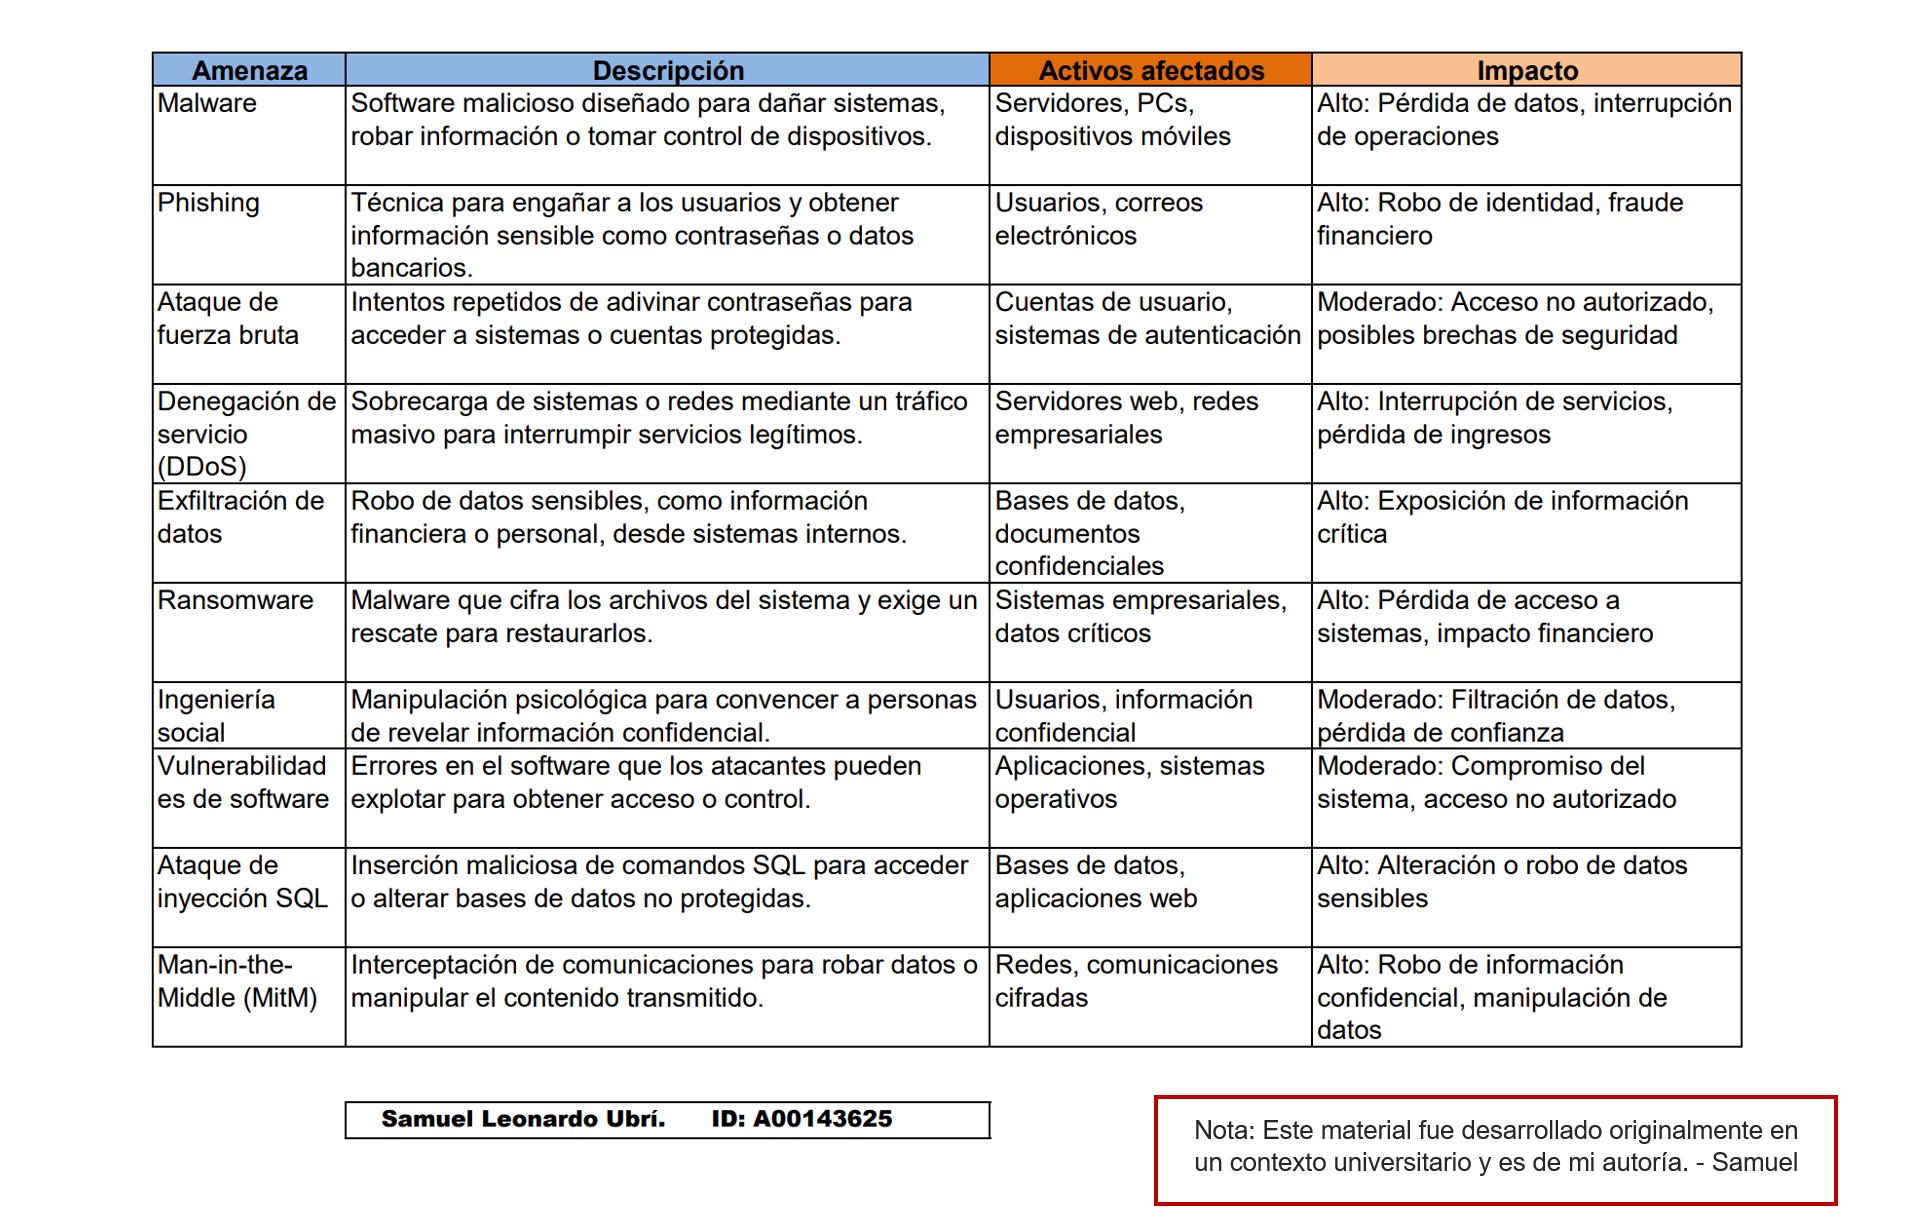
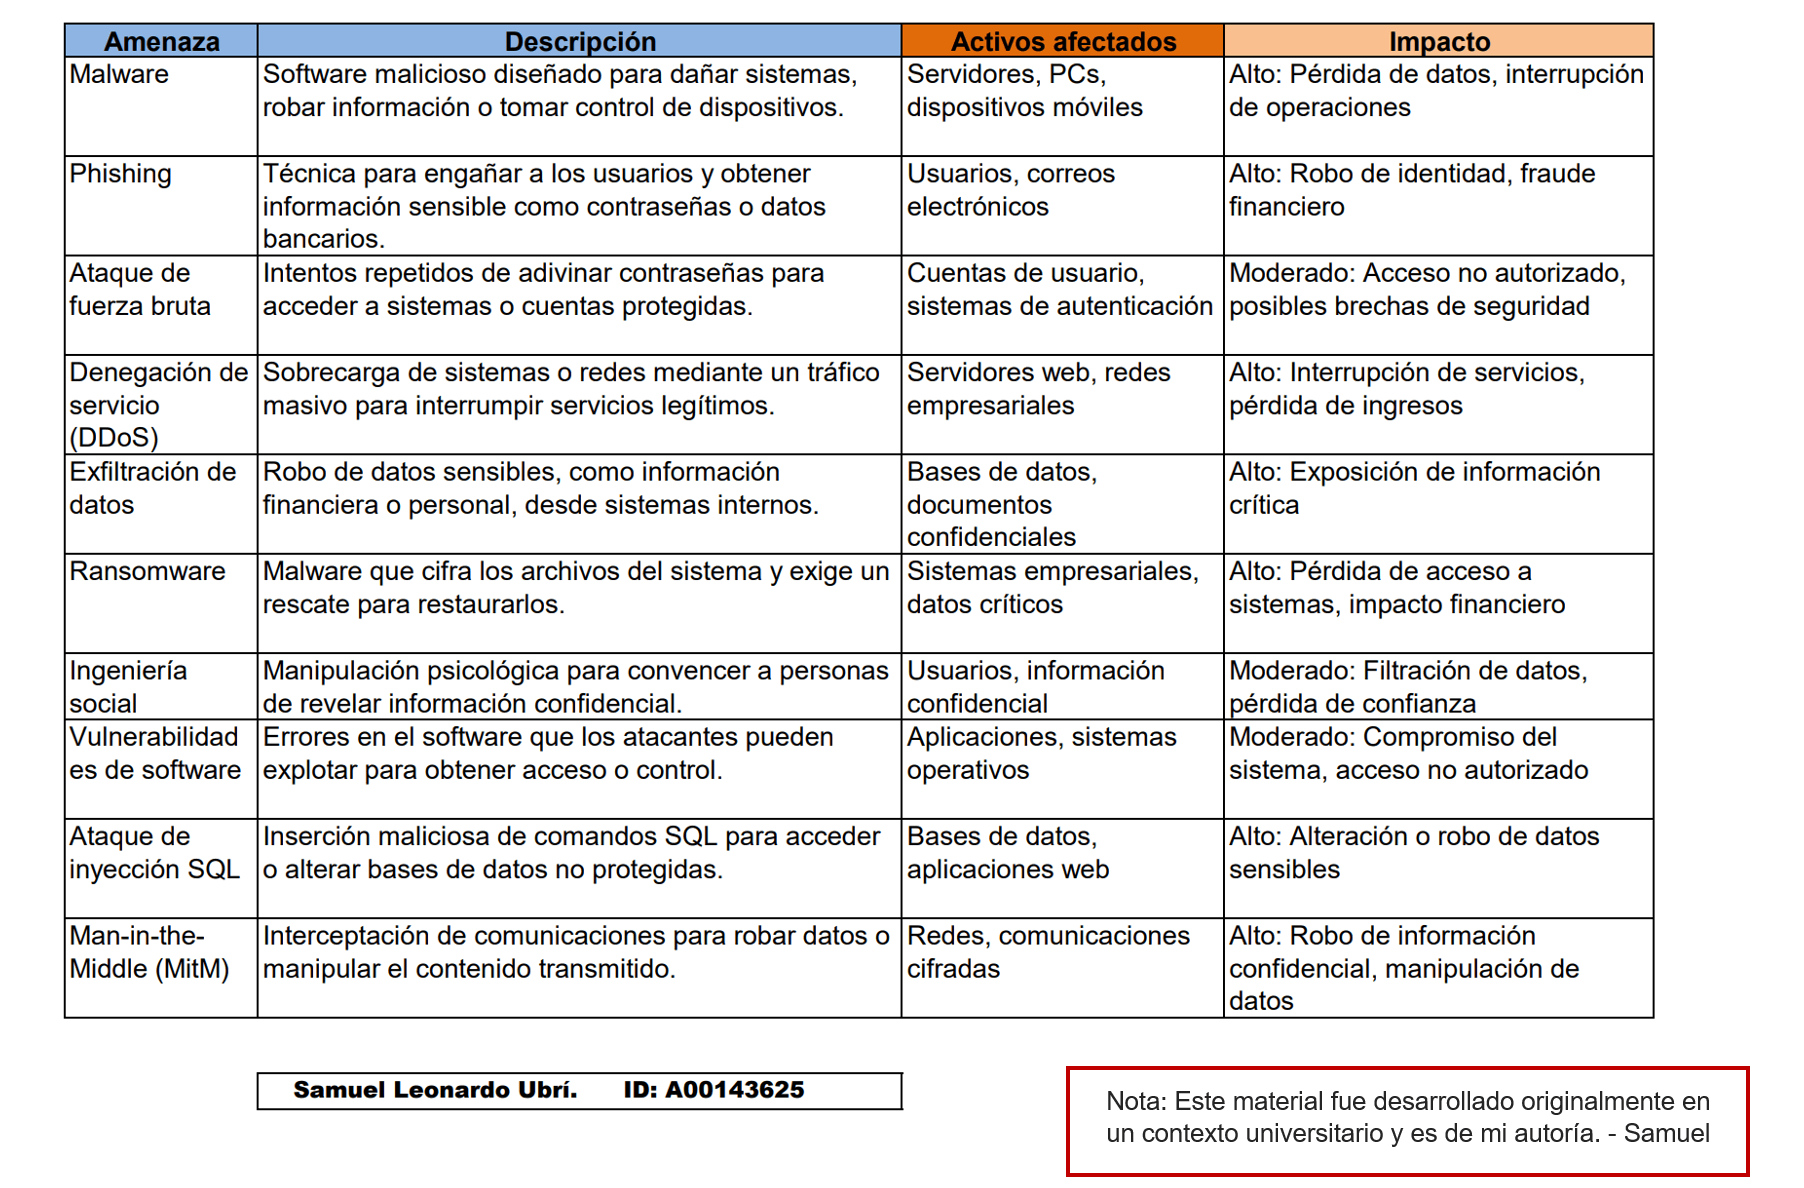
docs: optimize assets and finalize security architecture labs
- Optimized diagram sizes across Domains 1, 2, and 3 for better performance.
- Completed Domain 3 documentation for Data Protection and Resilience labs.
- Standardized file naming conventions for mitigation mapping evidence.

Changed region(s): [[0.031, 0.0, 0.9313, 0.8721], [0.5898, 0.9032, 0.9933, 0.9966], [0.1552, 0.9032, 0.5277, 0.9343]]

diff --git a/Domain3-Security-Architecture/labs/lab-2-data-protection/evidence/[2] data-classification-and-controls.md b/Domain3-Security-Architecture/labs/lab-2-data-protection/evidence/[2] data-classification-and-controls.md
@@ -1,0 +1,49 @@
+
+# Data Classification and Security Controls / Clasificación de datos y controles de seguridad
+
+## 1. Data Classification / Clasificación de datos
+
+### Public Data 
+Información destinada al público general.
+- Ejemplos: sitio web corporativo, comunicados públicos
+- Impacto ante exposición: bajo
+
+### Internal Data
+Información de uso interno de la organización.
+- Ejemplos: documentación interna, diagramas no sensibles
+- Impacto ante exposición: medio
+
+### Confidential Data
+Información crítica para la operación del negocio.
+- Ejemplos: datos financieros, bases de datos de clientes
+- Impacto ante exposición: alto
+
+### Sensitive / Restricted Data
+Información altamente sensible o regulada.
+- Ejemplos: credenciales, información personal (PII), datos legales
+- Impacto ante exposición: crítico
+
+---
+
+## 2. Security Controls by Data Type / Controles de seguridad por tipo de datos
+
+### Encryption at Rest / Cifrado en reposo
+- Aplicado a bases de datos y sistemas de almacenamiento
+- Protege datos en caso de acceso no autorizado al sistema
+
+### Encryption in Transit / Cifrado en tránsito
+- Uso de TLS/VPN para comunicaciones internas y externas
+- Evita intercepción y manipulación de datos
+
+### Access Control / Control de acceso
+- Control de acceso basado en roles (RBAC)
+- Principio de mínimo privilegio
+
+### Network Segmentation / Segmentación de red
+- Separación de zonas (usuarios, servidores, gestión)
+- Reduce la superficie de ataque y el movimiento lateral
+
+### Monitoring and Auditing / Supervisión y auditoría
+- Registro y monitoreo de accesos a datos críticos
+- Detección temprana de accesos no autorizados
+

diff --git a/Domain3-Security-Architecture/labs/lab-3-resilience-and-recovery-architecture/evidence/[2] continuity-strategy.md b/Domain3-Security-Architecture/labs/lab-3-resilience-and-recovery-architecture/evidence/[2] continuity-strategy.md
@@ -1,0 +1,35 @@
+
+# Continuity of Operations Strategy / Estrategia de continuidad de las operaciones
+
+## Objetivo
+Definir una estrategia de continuidad que permita a la organización mantener operaciones críticas ante fallas, incidentes de seguridad o desastres.
+
+## Principios aplicados
+La estrategia se basa en:
+- Disponibilidad continua de servicios críticos
+- Reducción del impacto operativo
+- Recuperación controlada y documentada
+
+## Componentes clave
+
+### Alta disponibilidad (High Availability)
+- Uso de pares de alta disponibilidad en firewalls y balanceadores
+- Eliminación de puntos únicos de falla
+- Conmutación automática ante fallos
+
+### Respaldos (Backups)
+- Copias cifradas de datos críticos
+- Almacenamiento fuera del sitio y/o en la nube
+- Pruebas periódicas de restauración
+
+### Recuperación ante desastres (Disaster Recovery)
+- Sitio de recuperación tipo *warm site*
+- Procedimientos definidos para activación del entorno alterno
+- Prioridad a servicios esenciales
+
+### Consideraciones de infraestructura
+- Diversidad de plataformas para reducir fallas comunes
+- Sistemas de energía de respaldo (UPS y generadores)
+- Monitoreo continuo de disponibilidad
+
+

diff --git a/Domain3-Security-Architecture/labs/lab-1-enterprise-segmentation/lab-notes.md b/Domain3-Security-Architecture/labs/lab-1-enterprise-segmentation/lab-notes.md
@@ -1,7 +1,8 @@
 
-## Lab 1 – Enterprise Security Architecture Overview
+## Lab 1 – Enterprise Security Architecture Overview / Visión general de arquitectura de seguridad empresarial (simulada)
 
 🔴 Objetivo
+
 Analizar una arquitectura de seguridad empresarial y comprender cómo se integran sus componentes principales para proteger la infraestructura, los datos y los accesos.
 
 ## Nota preliminar
@@ -10,6 +11,7 @@ Analizar una arquitectura de seguridad empresarial y comprender cómo se integra
 🔵 Análisis realizado
 
 El diagrama representa una arquitectura híbrida que combina:
+
 - Infraestructura on-premises y servicios en la nube
 - Segmentación de red mediante zonas de seguridad (DMZ, red interna, IoT/ICS, gestión)
 - Controles perimetrales e internos (firewalls, WAF, VLANs)
@@ -17,7 +19,8 @@ El diagrama representa una arquitectura híbrida que combina:
 
 🔵 Relación con Security+
 
-Este laboratorio refuerza la comprensión de:
+Con este laboratorio he podido reforzar conceptos asociados a:
+
 - Modelos de arquitectura (on-premises, cloud, virtualización, IoT/ICS)
 - Principios de diseño de infraestructura empresarial segura
 - Defensa en profundidad y segmentación

diff --git a/Domain3-Security-Architecture/labs/lab-2-data-protection/lab-notes.md b/Domain3-Security-Architecture/labs/lab-2-data-protection/lab-notes.md
@@ -1,5 +1,5 @@
 
-# Lab 2 – Data Protection in Enterprise Architecture
+# Lab 2 – Data Protection in Enterprise Architecture / Protección de Datos en Arquitectura Empresarial
 
 🔴 Objetivo
 
@@ -8,18 +8,21 @@ Analizar cómo una arquitectura de seguridad protege los datos en diferentes est
 🔵 Análisis realizado
 
 A partir del diagrama de arquitectura, se identifican mecanismos de protección de datos en:
+
 - Datos en tránsito (uso de cifrado TLS/VPN)
 - Datos en reposo (bases de datos cifradas)
 - Datos en uso (control de acceso y segregación de funciones)
 
 También se consideran aspectos como:
+
 - Ubicación de los datos (on-premises y cloud)
 - Acceso basado en roles
 - Separación de zonas para reducir exposición
 
 🔵 Relación con Security+
 
-Este laboratorio refuerza conceptos de:
+Con este laboratorio he podido reforzar conceptos asociados a:
+
 - Tipos de datos y estados de los datos
 - Métodos de protección (cifrado, control de acceso)
 - Clasificación y manejo adecuado de la información

diff --git a/Domain3-Security-Architecture/labs/lab-3-resilience-and-recovery-architecture/lab-notes.md b/Domain3-Security-Architecture/labs/lab-3-resilience-and-recovery-architecture/lab-notes.md
@@ -1,0 +1,24 @@
+
+# Lab 3 – Resilience and Recovery Architecture / Arquitectura de resiliencia y recuperación
+
+🔴 Objetivo
+
+Analizar cómo una arquitectura de seguridad soporta la continuidad operativa ante fallos o incidentes.
+
+🔵 Análisis realizado
+
+El diseño de la arquitectura contempla:
+
+- Alta disponibilidad en componentes críticos (HA Firewalls y Balanceadores)
+- Sistemas de respaldo cifrados y fuera del sitio
+- Separación entre infraestructura productiva y recuperación
+- Soporte energético mediante UPS y generadores
+
+🔵 Relación con Security+
+
+Con este laboratorio he podido reforzar conceptos asociados a:
+
+- Alta disponibilidad y tolerancia a fallos
+- Estrategias de respaldo y recuperación
+- Continuidad de operaciones (COOP)
+- BCP y DRP
